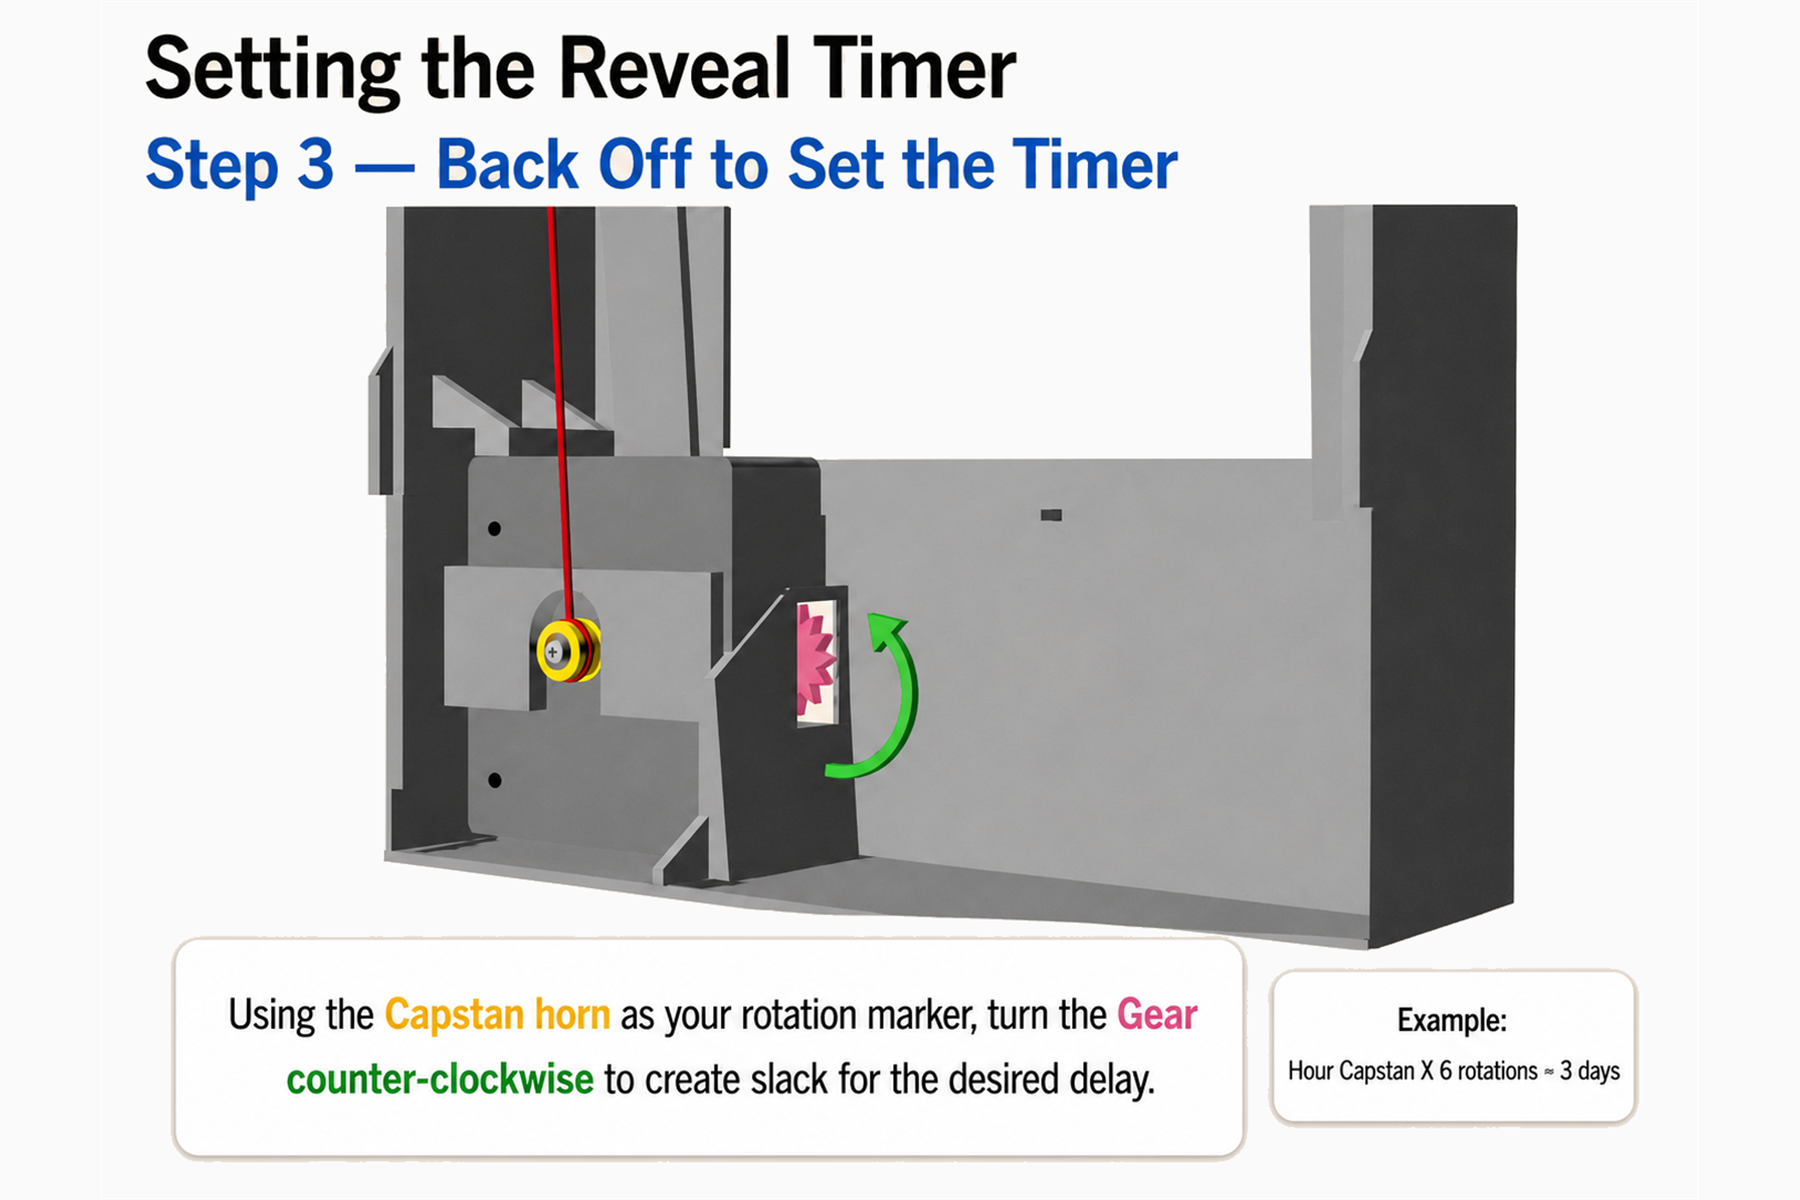
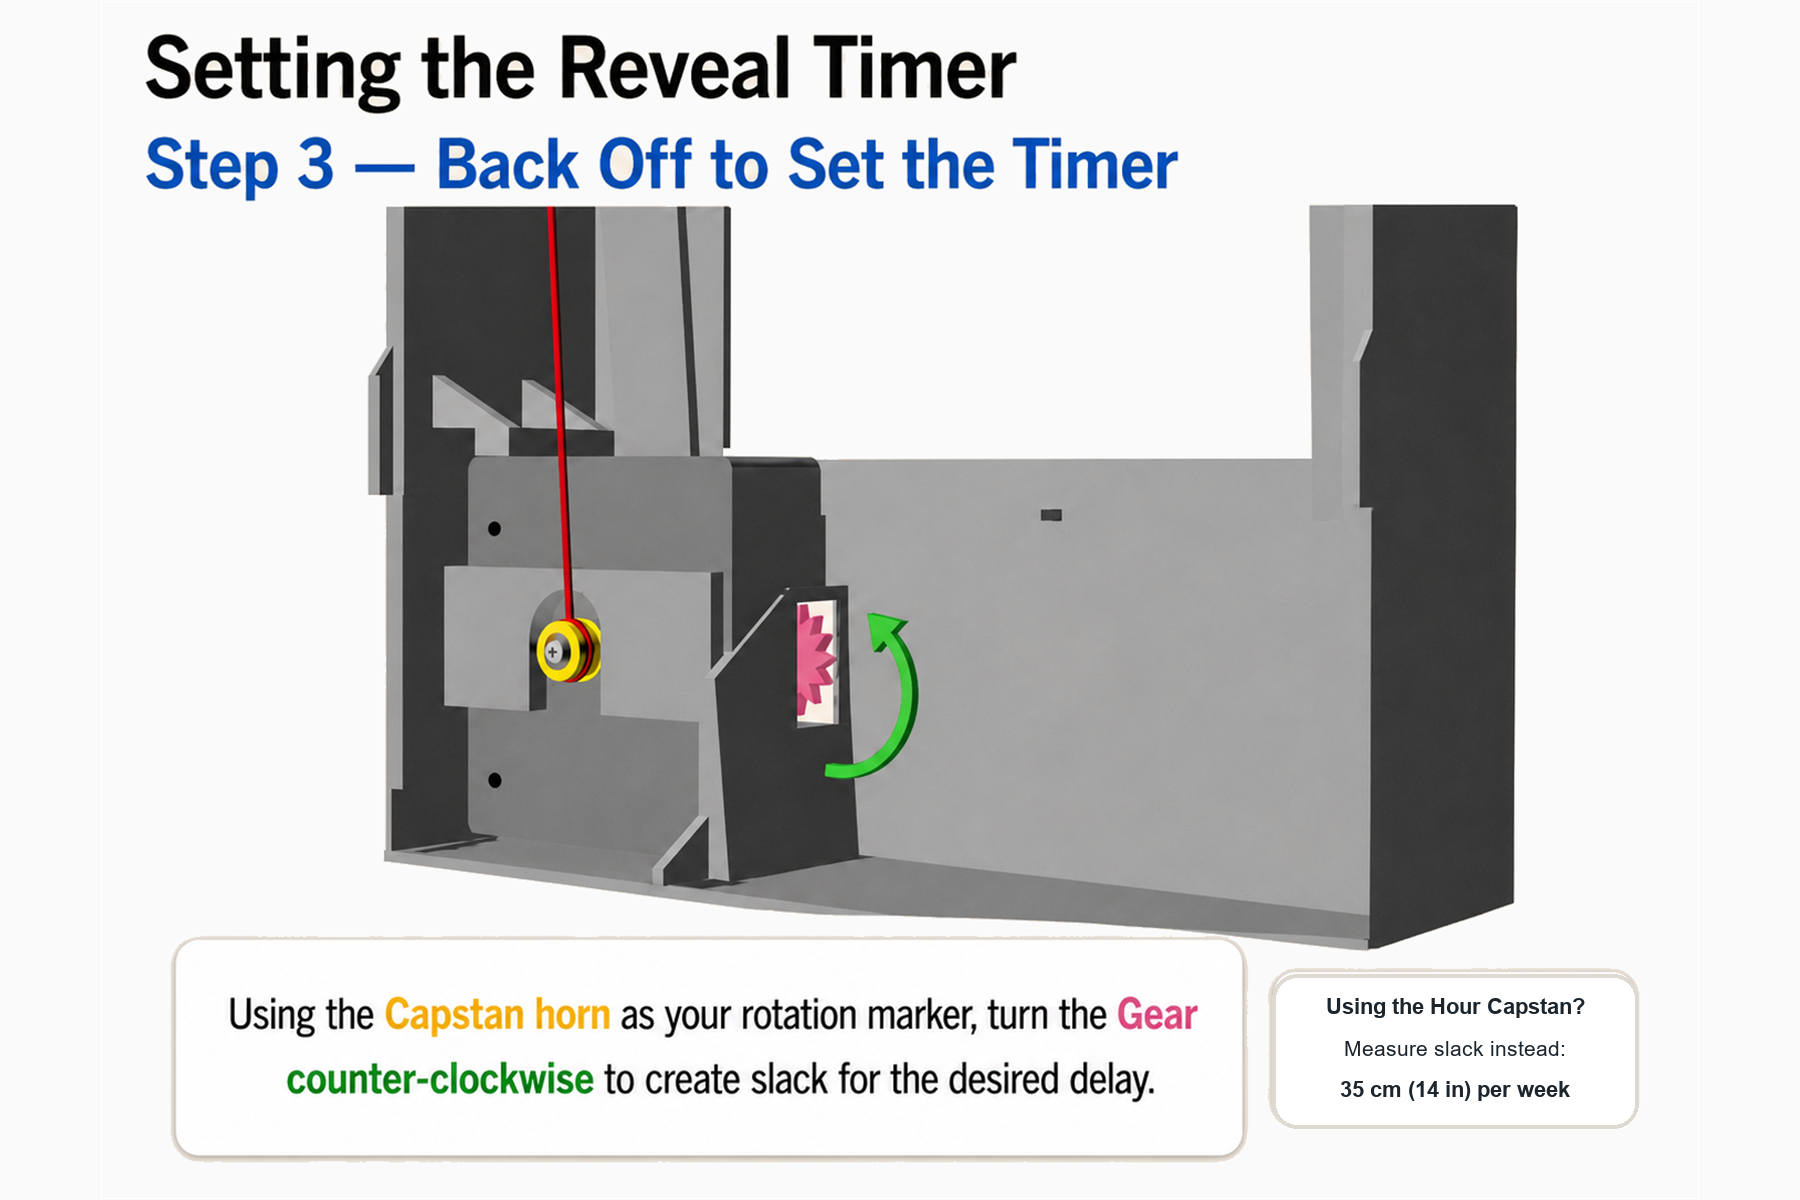
Update hour capstan timer guidance

Changed region(s): [[0.7156, 0.8017, 0.9022, 0.9558]]

diff --git a/AssemblyData.html b/AssemblyData.html
@@ -1,5 +1,5 @@
 window.ASSEMBLY_MANIFEST = {
-  version: 5,
+  version: 6,
   imageBase: "https://cdn.jsdelivr.net/gh/dvzdan/frames-site@dace05b/assets/instruction%20images",
   reference: {
     title: "Final Setup",
